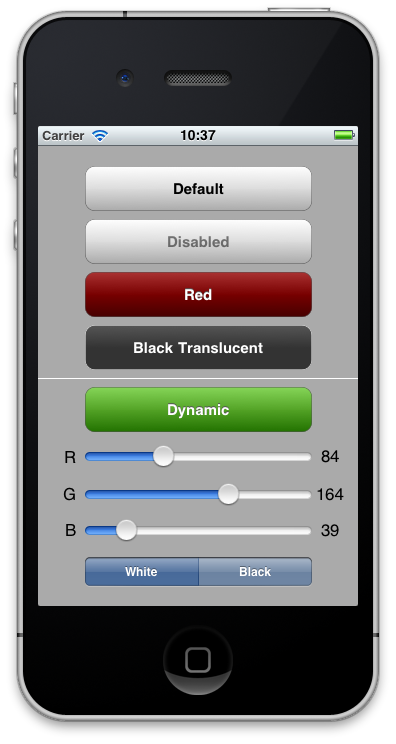
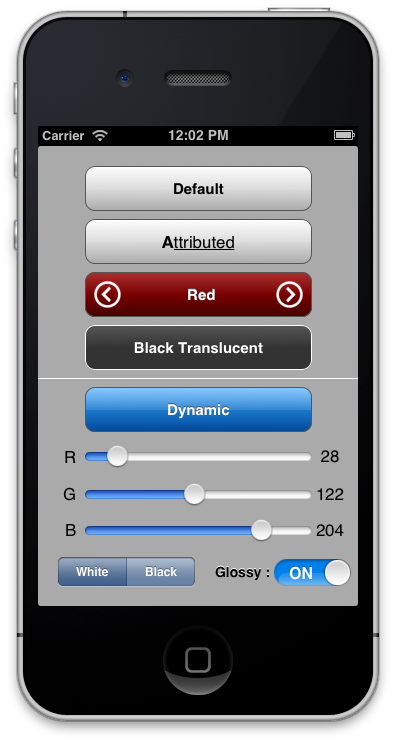
Update assets & lib info.

diff --git a/README.md b/README.md
@@ -7,6 +7,7 @@ A beautiful customizable iOS button with gradient.
 ## Requirements
 
 * You can use ARC or not, this library supports both
+* iOS 4+
 
 ## Usage
 
@@ -18,4 +19,4 @@ For more examples, have a look at the `NVUIGradientButtonSample` project.
 
 ## License
 
-Copyright (c) 2012 [Nicolas VERINAUD](http://www.nverinaud.com). Released under the MIT license.
+Copyright (c) 2013 [Nicolas VERINAUD](http://www.nverinaud.com). Released under the MIT license.

diff --git a/CHANGELOG.md b/CHANGELOG.md
@@ -1,5 +1,10 @@
 # Changelog
 
+## Release 1.5.0
+
+* NEW: a nice glossy effect may be set using the `glossy` property
+* NEW: UIAppearance is now supported, `gradientEnabled` and `glossy` are now `NSInteger` but should be used as `BOOL`
+
 ## Release 1.4.0
 
 * NEW: it is now possible to use attributed text (thanks to [Dean Moore](https://github.com/moored))
